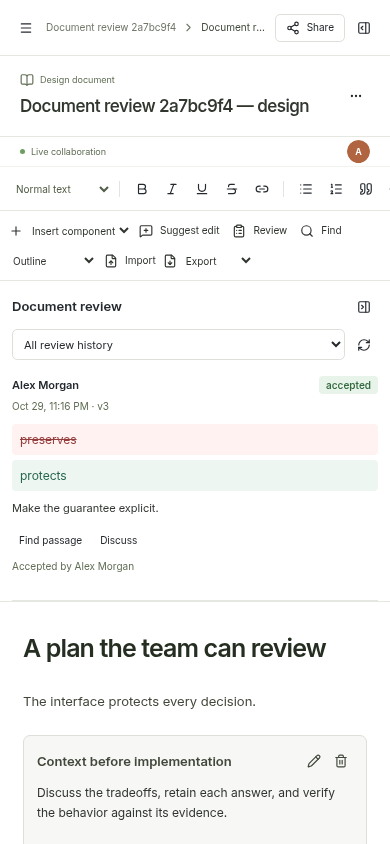
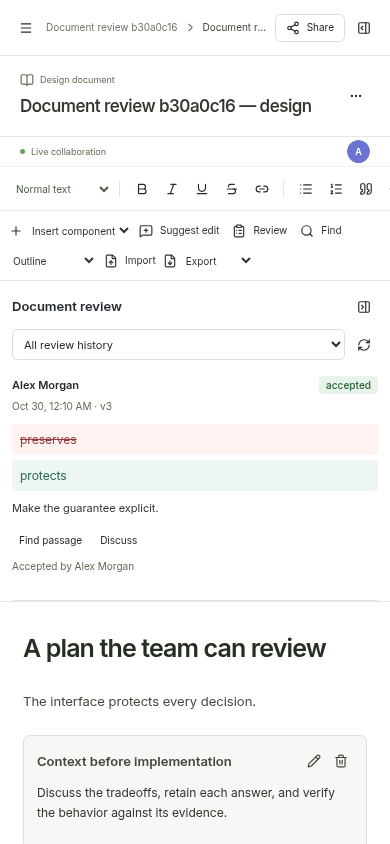
fix(studio-documents): open accepted ADRs and capture the integrated review workflow

diff --git a/packages/studio/client/App.tsx b/packages/studio/client/App.tsx
@@ -121,7 +121,9 @@ export function App() {
     [rightOpen, setRightOpen] = useState(window.innerWidth >= 1280),
     [sideOpen, setSideOpen] = useState(false),
     [panel, setPanel] = useState('chat'),
-    [anchor, setAnchor] = useState<{ id: string; quote: string } | null>(null),
+    [anchor, setAnchor] = useState<{ id: string; quote: string } | null>(
+      null,
+    ),
     [settings, setSettings] = useState(false),
     [more, setMore] = useState(false),
     [busy, setBusy] = useState(false);
@@ -173,7 +175,10 @@ export function App() {
         if (event.shiftKey && document.activeElement === items[0]) {
           event.preventDefault();
           items.at(-1)?.focus();
-        } else if (!event.shiftKey && document.activeElement === items.at(-1)) {
+        } else if (
+          !event.shiftKey &&
+          document.activeElement === items.at(-1)
+        ) {
           event.preventDefault();
           items[0]?.focus();
         }
@@ -422,7 +427,10 @@ export function App() {
           <PanelsTopLeft size={22} />
           <strong>ai-bdd</strong>
           <span>Studio</span>
-          <IconButton label="Search artifacts" onClick={() => setCommand(true)}>
+          <IconButton
+            label="Search artifacts"
+            onClick={() => setCommand(true)}
+          >
             <Search size={16} />
           </IconButton>
         </div>
@@ -433,7 +441,8 @@ export function App() {
           <span>
             {project?.title ?? 'Your workspace'}
             <small>
-              {projects.length} {projects.length === 1 ? 'project' : 'projects'}
+              {projects.length}{' '}
+              {projects.length === 1 ? 'project' : 'projects'}
             </small>
           </span>
           <ChevronDown size={14} />
@@ -598,7 +607,9 @@ export function App() {
               </>
             )}
             <IconButton
-              label={rightOpen ? 'Hide artifact panel' : 'Show artifact panel'}
+              label={
+                rightOpen ? 'Hide artifact panel' : 'Show artifact panel'
+              }
               onClick={() => setRightOpen((v) => !v)}
             >
               {rightOpen ? <PanelRightClose /> : <PanelRightOpen />}
@@ -665,7 +676,10 @@ export function App() {
                     disabled={readOnly}
                     title={readOnly ? undefined : 'Rename artifact'}
                     onClick={() => {
-                      const t = window.prompt('Artifact title', artifact.title);
+                      const t = window.prompt(
+                        'Artifact title',
+                        artifact.title,
+                      );
                       if (t?.trim())
                         api(`/artifacts/${artifact.id}/title`, 'PATCH', {
                           title: t.trim(),
@@ -722,7 +736,10 @@ export function App() {
                             <button
                               onClick={() => {
                                 setMore(false);
-                                api(`/artifacts/${artifact.id}/archive`, 'POST')
+                                api(
+                                  `/artifacts/${artifact.id}/archive`,
+                                  'POST',
+                                )
                                   .then(() =>
                                     navigate(
                                       project.id,
@@ -758,6 +775,10 @@ export function App() {
                         user={user}
                         readOnly={readOnly}
                         runs={bundle.runs}
+                        onDecisions={() => {
+                          setPanel('decisions');
+                          setRightOpen(true);
+                        }}
                         onTests={() => {
                           setPanel('tests');
                           setRightOpen(true);
@@ -775,7 +796,8 @@ export function App() {
                       artifact.kind === 'brand' ||
                       artifact.kind === 'video' ? (
                       <VisualEditor key={artifact.id} {...mediaProps!} />
-                    ) : artifact.kind === 'scene' || artifact.kind === 'cad' ? (
+                    ) : artifact.kind === 'scene' ||
+                      artifact.kind === 'cad' ? (
                       <SceneEditor key={artifact.id} {...mediaProps!} />
                     ) : (
                       <GenerativeEditor key={artifact.id} {...mediaProps!} />
@@ -818,8 +840,8 @@ export function App() {
               <Network size={22} />
               <h2>Built together.</h2>
               <p>
-                Projects are compositions of artifacts. Open any artifact to see
-                its dedicated discussion, decisions, and evidence.
+                Projects are compositions of artifacts. Open any artifact to
+                see its dedicated discussion, decisions, and evidence.
               </p>
               <div className="project-summary">
                 <span>{artifacts.length} artifacts</span>
@@ -939,7 +961,9 @@ export function App() {
         />
         <div className="command-results">
           {projects
-            .filter((p) => p.title.toLowerCase().includes(query.toLowerCase()))
+            .filter((p) =>
+              p.title.toLowerCase().includes(query.toLowerCase()),
+            )
             .map((p) => (
               <button
                 key={p.id}
@@ -957,7 +981,9 @@ export function App() {
               </button>
             ))}
           {artifacts
-            .filter((a) => a.title.toLowerCase().includes(query.toLowerCase()))
+            .filter((a) =>
+              a.title.toLowerCase().includes(query.toLowerCase()),
+            )
             .map((a) => {
               const Icon = kindIcons[a.kind];
               return (
@@ -1017,7 +1043,10 @@ export function App() {
               <Input name="title" defaultValue={project.title} required />
             </Field>
             <Field label="Description">
-              <Textarea name="description" defaultValue={project.description} />
+              <Textarea
+                name="description"
+                defaultValue={project.description}
+              />
             </Field>
             <Field label="Repository">
               <Input name="repository" defaultValue={project.repository} />
@@ -1040,8 +1069,8 @@ export function App() {
             </div>
           ))}
           <p className="small muted">
-            Providers and credentials are configured by the deployment operator.
-            Preview remains available without them.
+            Providers and credentials are configured by the deployment
+            operator. Preview remains available without them.
           </p>
           <Button
             variant="outline"

diff --git a/packages/studio/tests/documents.spec.ts b/packages/studio/tests/documents.spec.ts
@@ -63,7 +63,9 @@ async function fixture(page: Page, content?: any[]) {
     version: bundle.artifact.version,
     content: { doc: { type: 'doc', content: doc } },
   });
-  await page.goto(`/?project=${project.id}&artifact=${project.mainArtifactId}`);
+  await page.goto(
+    `/?project=${project.id}&artifact=${project.mainArtifactId}`,
+  );
   await expect(
     page.getByLabel('Document editor', { exact: true }),
   ).toBeVisible();
@@ -81,11 +83,15 @@ test('collaborators answer inline questions, accept an attributed ADR, and revie
   );
   await questionnaire.getByRole('radio', { name: 'Approach B' }).check();
   await questionnaire
-    .getByRole('textbox', { name: 'Reason for Which approach should we take?' })
+    .getByRole('textbox', {
+      name: 'Reason for Which approach should we take?',
+    })
     .fill(
       'The second approach keeps the integration boundary independently testable.',
     );
-  await questionnaire.getByRole('button', { name: 'Save your answer' }).click();
+  await questionnaire
+    .getByRole('button', { name: 'Save your answer' })
+    .click();
   await expect(questionnaire.locator('.document-answers strong')).toHaveText(
     user.name,
   );
@@ -94,6 +100,10 @@ test('collaborators answer inline questions, accept an attributed ADR, and revie
     .click();
   await expect(
     questionnaire.getByRole('button', { name: 'Accepted ADR' }),
+  ).toBeVisible();
+  await questionnaire.getByRole('button', { name: 'Accepted ADR' }).click();
+  await expect(
+    page.getByRole('heading', { name: 'Architecture decisions' }),
   ).toBeVisible();
   await page.locator('.document-scroll').evaluate((element) => {
     element.scrollTop = 0;
@@ -112,7 +122,9 @@ test('collaborators answer inline questions, accept an attributed ADR, and revie
     selection.addRange(range);
     document.dispatchEvent(new Event('selectionchange'));
   });
-  await page.getByRole('button', { name: 'Suggest edit', exact: true }).click();
+  await page
+    .getByRole('button', { name: 'Suggest edit', exact: true })
+    .click();
   await expect(
     page.getByRole('dialog', { name: 'Suggest a text change' }),
   ).toBeVisible();
@@ -198,7 +210,9 @@ test('Word and restricted MDX interchange are actual downloads and confirmed imp
   await page
     .getByRole('button', { name: 'Replace document', exact: true })
     .click();
-  await expect(page.locator('.document-page h1')).toHaveText('Imported design');
+  await expect(page.locator('.document-page h1')).toHaveText(
+    'Imported design',
+  );
   await expect(
     page.locator('[data-component-kind="columnsBlock"]'),
   ).toBeVisible();
@@ -215,7 +229,9 @@ test('Word and restricted MDX interchange are actual downloads and confirmed imp
     return canvas.toDataURL('image/png').split(',')[1]!;
   });
   const picker = page.waitForEvent('filechooser');
-  await page.getByRole('button', { name: 'Insert image', exact: true }).click();
+  await page
+    .getByRole('button', { name: 'Insert image', exact: true })
+    .click();
   await (
     await picker
   ).setFiles({
@@ -256,10 +272,14 @@ test('Word and restricted MDX interchange are actual downloads and confirmed imp
   await page
     .getByRole('button', { name: 'Replace document', exact: true })
     .click();
-  await expect(page.locator('.document-page h1')).toHaveText('Imported design');
-  await expect(page.locator('.document-page strong')).toHaveText(
-    'Evidence remains reviewable.',
+  await expect(page.locator('.document-page h1')).toHaveText(
+    'Imported design',
   );
+  await expect(
+    page
+      .locator('.document-page strong')
+      .filter({ hasText: /^Evidence remains reviewable\.$/ }),
+  ).toHaveText('Evidence remains reviewable.');
   await expect(page.locator('.document-page img')).toBeVisible();
   await expect
     .poll(() =>
@@ -269,7 +289,9 @@ test('Word and restricted MDX interchange are actual downloads and confirmed imp
     )
     .toBe(2);
   const mdxDownload = page.waitForEvent('download');
-  await page.getByLabel('Export document', { exact: true }).selectOption('mdx');
+  await page
+    .getByLabel('Export document', { exact: true })
+    .selectOption('mdx');
   const mdx = await mdxDownload;
   expect(await readFile((await mdx.path())!, 'utf8')).toContain(
     '**Evidence remains reviewable.**',
@@ -326,12 +348,15 @@ test('find and replace edits real document text, the outline navigates headings,
   await expect
     .poll(() =>
       page.evaluate(
-        () => !!window.getSelection()?.anchorNode?.parentElement?.closest('h1'),
+        () =>
+          !!window.getSelection()?.anchorNode?.parentElement?.closest('h1'),
       ),
     )
     .toBe(true);
   await page.locator('.document-page [data-id="intent"]').click();
-  await page.getByRole('button', { name: 'Insert table', exact: true }).click();
+  await page
+    .getByRole('button', { name: 'Insert table', exact: true })
+    .click();
   const table = page.locator('.document-page table');
   await expect(table.locator('tr')).toHaveCount(3);
   await table.locator('td,th').first().click();
@@ -374,7 +399,9 @@ test('a fresh viewer can read document review and search without editing questio
     await expect(
       viewer.getByRole('button', { name: 'Import', exact: true }),
     ).toBeDisabled();
-    await expect(viewer.getByLabel('Insert planning component')).toBeDisabled();
+    await expect(
+      viewer.getByLabel('Insert planning component'),
+    ).toBeDisabled();
     await expect(
       viewer.locator('[data-component-kind="questionnaireBlock"] input'),
     ).toHaveCount(0);

diff --git a/docs/studio-evidence/continuation/documents-review.md b/docs/studio-evidence/continuation/documents-review.md
@@ -1,10 +1,10 @@
 # Document review captures
 
-These images show the built document workflow in the isolated continuation harness, using synthetic local content and authenticated SQLite-backed persistence. The desktop viewport is 1440×1000 and the mobile viewport is 390×844. Reduced motion and explicit single-column geometry checks prevent capturing a resize transition as a mobile state.
+These refreshed images show the built introducing document-layer application, using synthetic local content and authenticated SQLite-backed persistence. The desktop viewport is 1440×1000 and the mobile viewport is 390×844. Reduced motion and explicit single-column geometry checks prevent capturing a resize transition as a mobile state.
 
 - `documents-review-desktop.png`: an accepted, attributed text suggestion next to the resulting shared prose; inline questionnaire response and persisted accepted ADR state; callout and document tooling.
 - `documents-review-mobile.png`: the same review state stacked above the document, with closed/inert project navigation and no horizontal clipping.
 
 The five real Chromium workflows exercised questionnaire→ADR persistence, suggestion→accept/reload, Markdown/Word/MDX downloads and confirmed import, embedded raster images and standalone HTML, actual multipage PDF output, literal find/replace, outline/table controls, and a fresh viewer session. The initial authoring run exposed that headings without an ID were absent from the outline; the corrected case passed. Imported headings now have safe ephemeral navigation positions until they have persistent IDs.
 
-The captures establish this document-layer work item. They do not certify the later PostgreSQL/multi-instance migration, provider execution, or a public deployment. The isolated harness does not wire the optional ADR-opening callback, so the accepted ADR button is visible but disabled there; the integration App wires that callback and must verify navigation separately. A static image does not prove the executable behaviors above; the browser/API test results supply that evidence. The accepted suggestion state is unrelated to test-pass status, and the unlinked evidence block makes no passing-run claim.
+The captures establish this document-layer work item. They do not certify the later PostgreSQL/multi-instance migration, provider execution, or a public deployment. The application wires the accepted ADR button; the browser case clicks it and verifies the Architecture decisions panel before continuing the review and reload workflow. A static image does not prove the executable behaviors above; the browser/API test results supply that evidence. The accepted suggestion state is unrelated to test-pass status, and the unlinked evidence block makes no passing-run claim.
